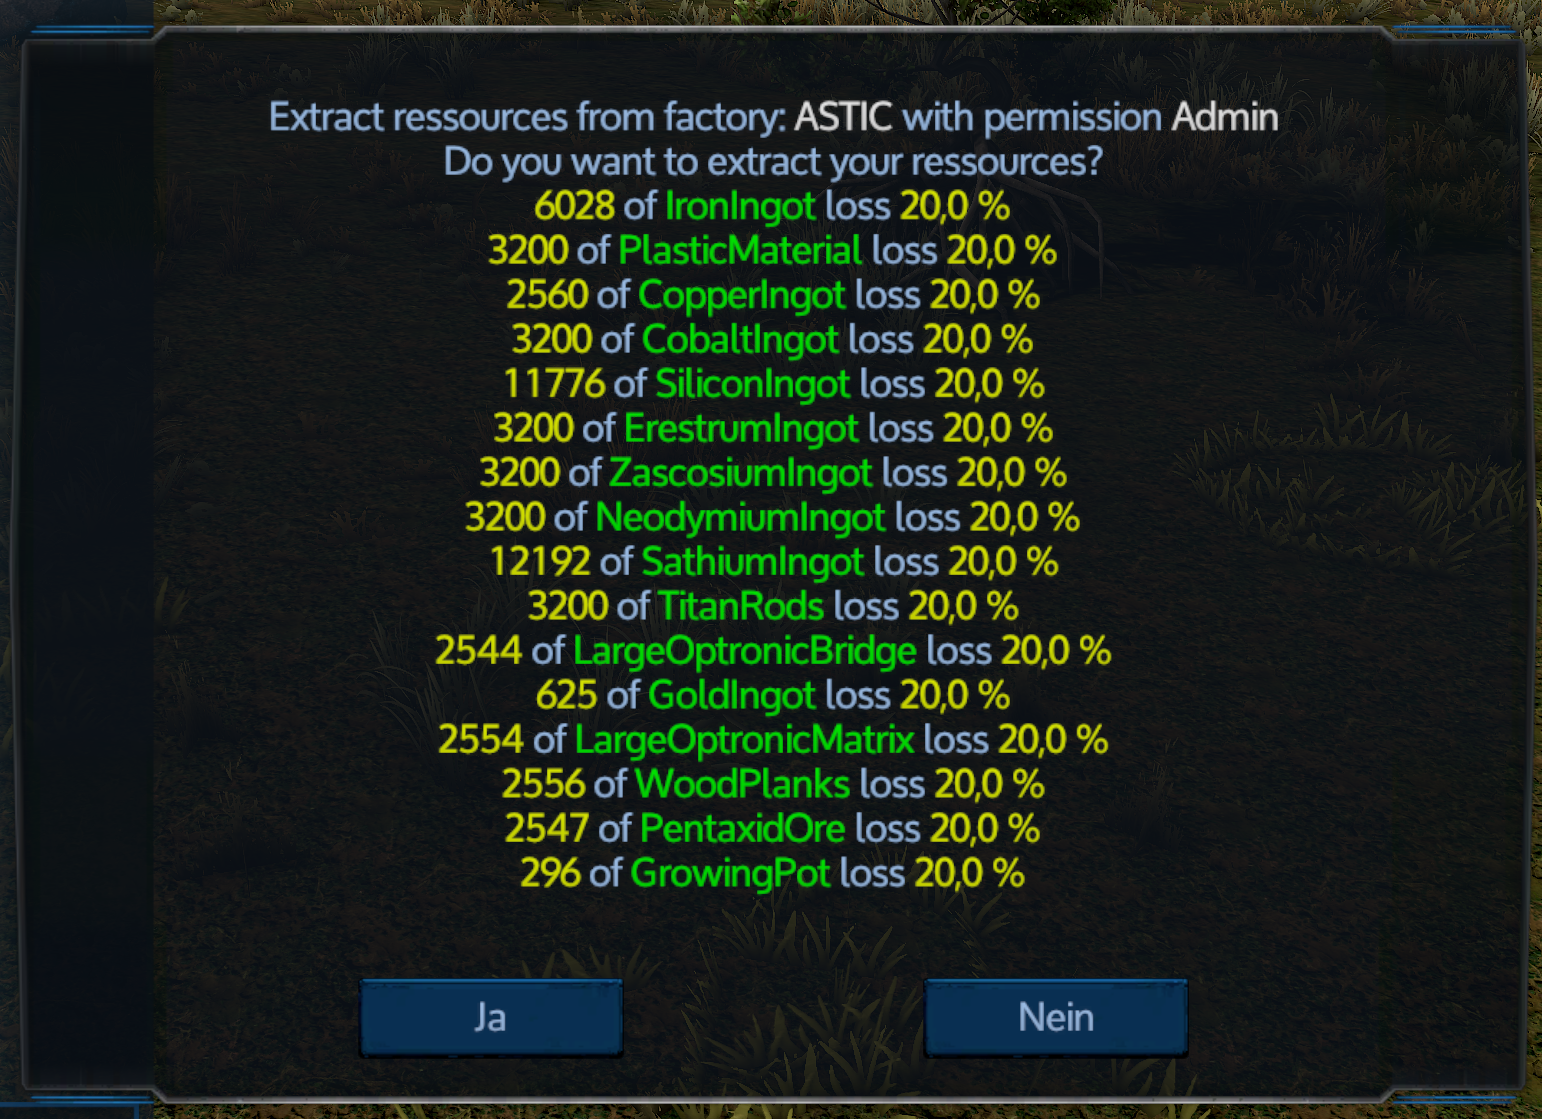
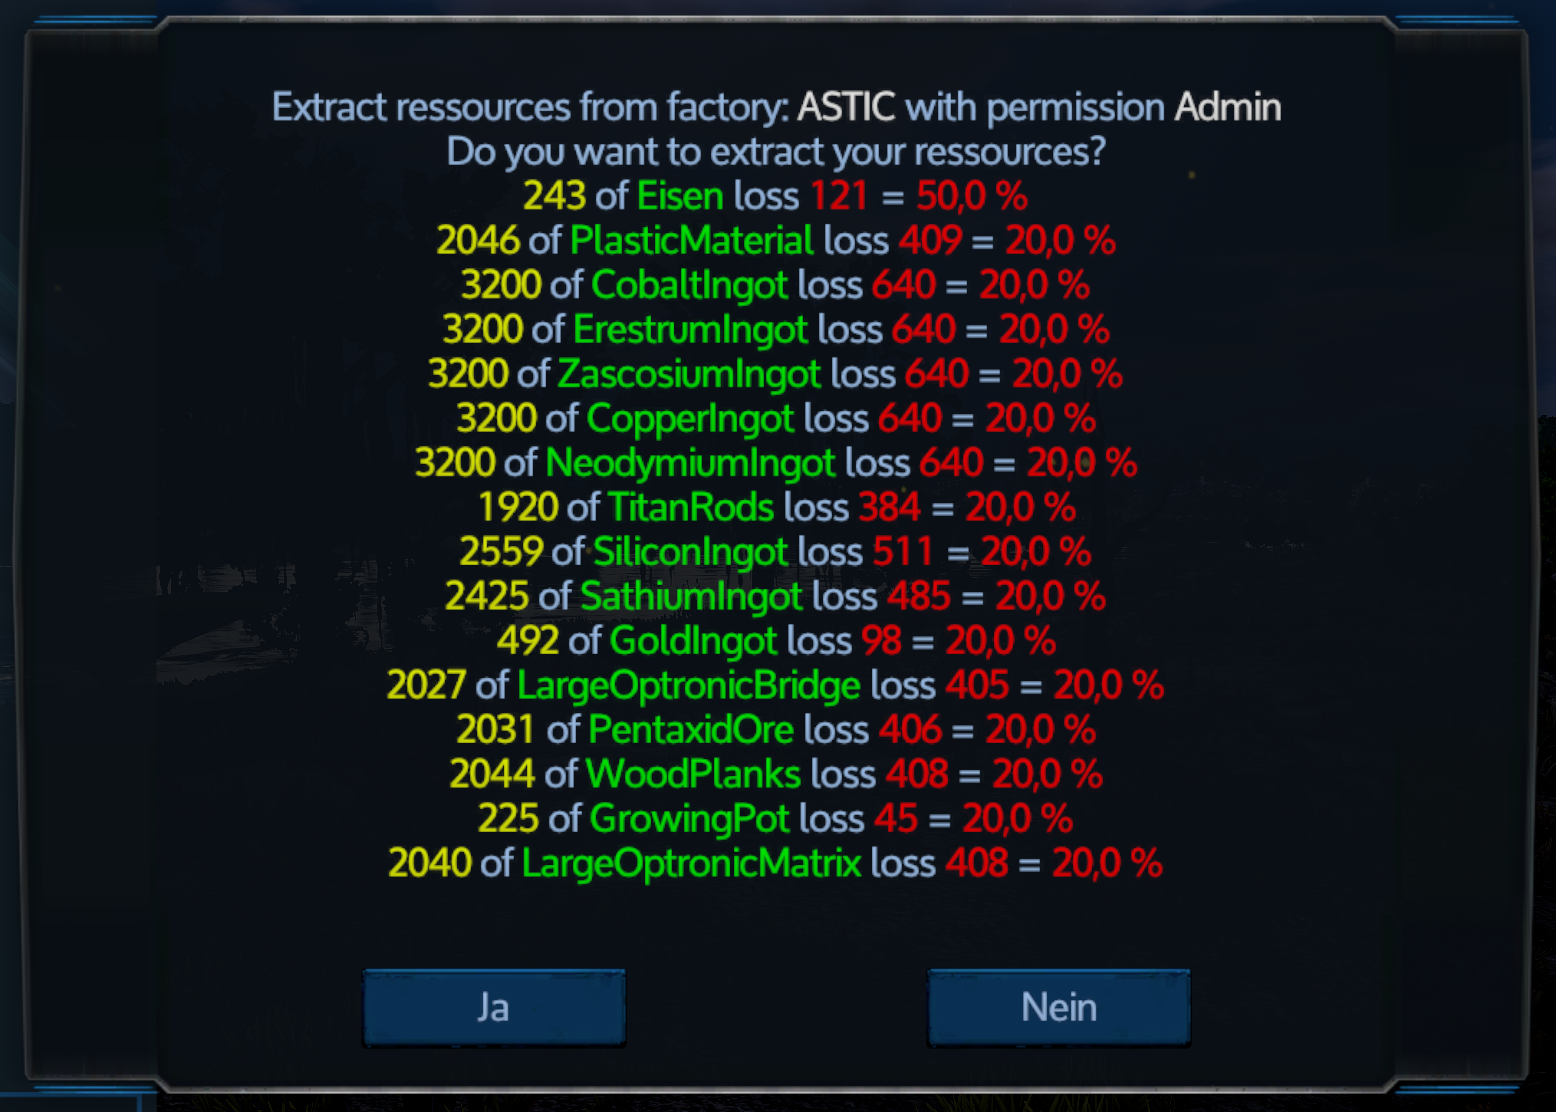
Meldungen verbessert

Changed region(s): [[0.1556, 0.0612, 0.8405, 0.8561], [0.0, 0.0, 1.0, 1.0], [0.249, 0.8561, 0.4047, 0.9478]]

diff --git a/EmpyrionFactoryDealer/FactoryDealer.cs b/EmpyrionFactoryDealer/FactoryDealer.cs
@@ -82,7 +82,7 @@ namespace EmpyrionGalaxyNavigator
             var remainingResources = P.bpResourcesInFactory.ToDictionary(r => r.Key, r => (1.0 - ExtractionPercentLoss(r.Key)) * r.Value);
 
             var answer = await ShowDialog(playerId, P, "Extract ressources from factory", $"Do you want to extract your ressources?" + 
-                remainingResources.Aggregate("\n", (l, r) => l + $"[c][f0ff00]{(int)r.Value}[-][/c] of [c][00ff00]{GetItemName(r.Key)}[-][/c] loss [c][f0ff00]{ExtractionPercentLoss(r.Key):P1}[-][/c]\n"), 
+                remainingResources.Aggregate("\n", (l, r) => l + $"[c][f0ff00]{(int)r.Value}[-][/c] of [c][00ff00]{GetItemName(r.Key)}[-][/c] loss [c][ff0000]{(int)(r.Value * ExtractionPercentLoss(r.Key))}[-][/c] = [c][ff0000]{ExtractionPercentLoss(r.Key):P1}[-][/c]\n"), 
                 "Yes", "No");
             if (answer.Id != P.entityId || answer.Value != 0) return;
 
@@ -92,8 +92,11 @@ namespace EmpyrionGalaxyNavigator
 
         private string GetItemName(int itemId)
         {
+            var foundName = Configuration.Current.Ressources?.FirstOrDefault(r => r.Item == itemId)?.Name;
+            if(!string.IsNullOrEmpty(foundName)) return foundName;
+
             var foundId = BlockNameIdMapping?.FirstOrDefault(i => i.Value == itemId);
-            return foundId?.Value == 0 ? itemId.ToString() : foundId?.Key;
+            return string.IsNullOrEmpty(foundId?.Key) ? itemId.ToString() : foundId?.Key;
         }
 
         private double ExtractionPercentLoss(int itemId)
@@ -193,6 +196,16 @@ namespace EmpyrionGalaxyNavigator
         {
             ConfigurationManager<Configuration>.Log = Log;
             Configuration = new ConfigurationManager<Configuration>() { ConfigFilename = Path.Combine(EmpyrionConfiguration.SaveGameModPath, "Configuration.json") };
+            Configuration.CreateDefaults = config => {
+                config.Ressources = new List<RessourcesData>(new[] { new RessourcesData
+                    {
+                        Item                    = 4320,
+                        Name                    = "Iron",
+                        RebuyCostPerUnit        = 5,
+                        ExtractionPercentLost   = 0.3
+                    }
+                });
+            };
 
             Configuration.Load();
             Configuration.Save();

diff --git a/EmpyrionFactoryDealer/Configuration.cs b/EmpyrionFactoryDealer/Configuration.cs
@@ -10,9 +10,10 @@ namespace EmpyrionGalaxyNavigator
     [Serializable]
     public class RessourcesData
     {
-        public int Item { get; internal set; }
-        public int RebuyCostPerUnit { get; internal set; }
-        public double ExtractionPercentLost { get; internal set; }
+        public int Item { get; set; }
+        public string Name { get; set; }
+        public int RebuyCostPerUnit { get; set; }
+        public double ExtractionPercentLost { get; set; }
     }
 
     [Serializable]
@@ -25,12 +26,6 @@ namespace EmpyrionGalaxyNavigator
         public int RebuyCostPerUnit { get; set; } = 10;
         public double ExtractionPercentLost { get; set; } = 0.2;
         public string NameIdMappingFile { get; set; } = "filepath to the NameIdMapping.json e.g. from EmpyrionScripting for item name support";
-        public RessourcesData[] Ressources { get; set; } = new[] { new RessourcesData
-            {
-                Item                    = 17,
-                RebuyCostPerUnit        = 42,
-                ExtractionPercentLost   = 0.2
-            } 
-        };
+        public List<RessourcesData> Ressources { get; set; } = new List<RessourcesData>();
     }
 }
